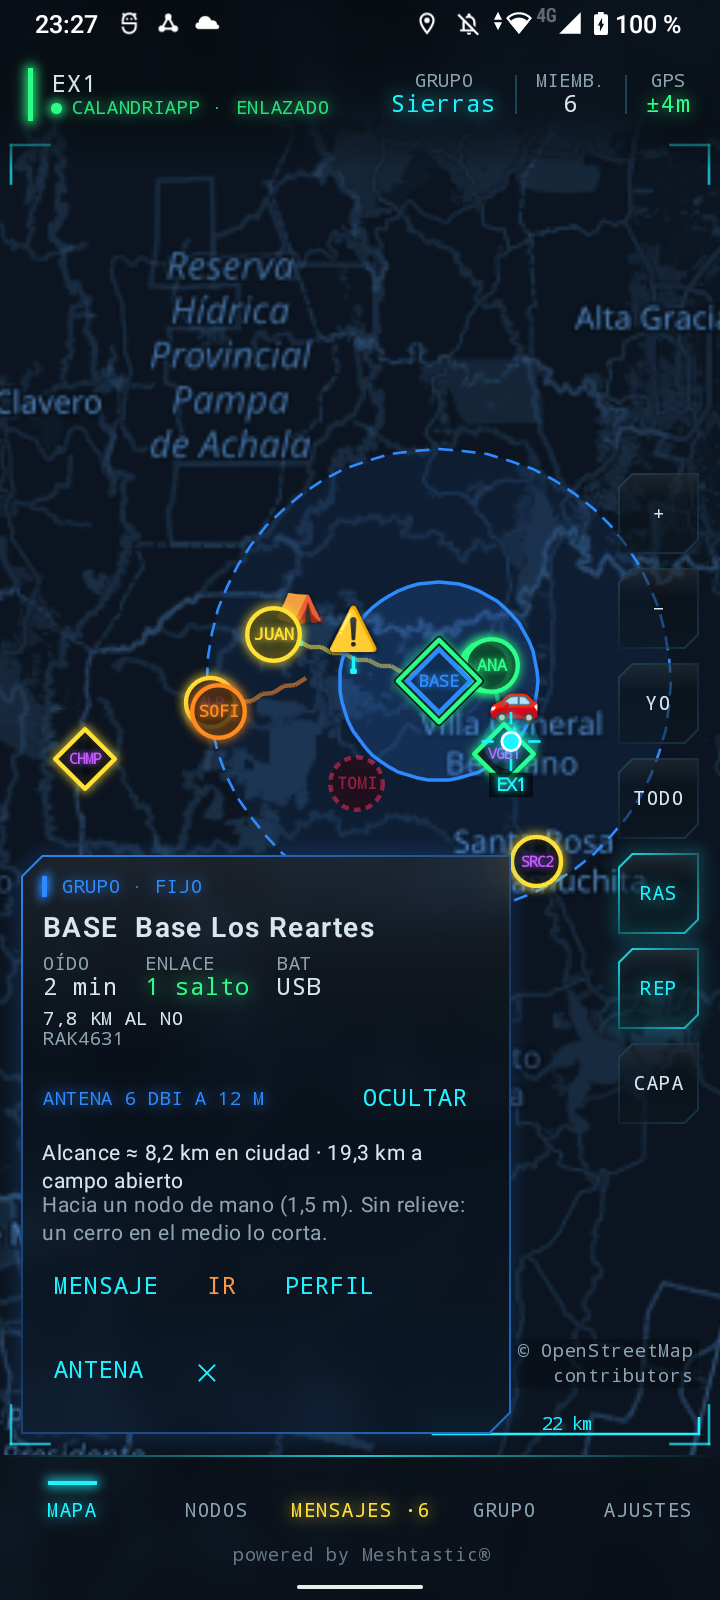
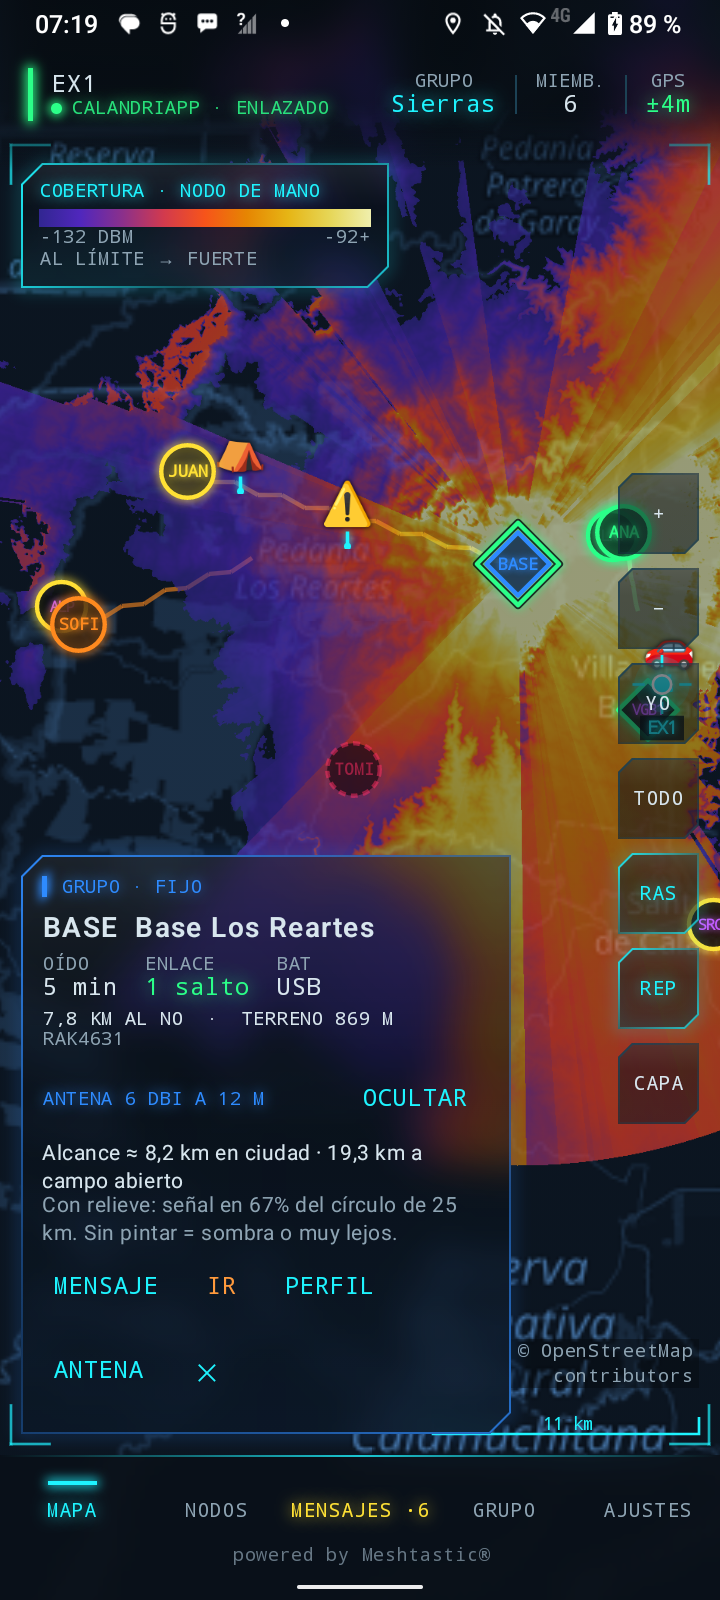
Release 1.6.0
Claude-Session: https://claude.ai/code/session_01CuarqPnbhZZVBMBUctnMAD

diff --git a/README.md b/README.md
@@ -3,7 +3,7 @@
 **Una app Android chica y propia para usar nodos Meshtastic en el campo: mensajes, mapa offline y
 seguimiento de un grupo cerrado, sin cuentas, sin nube y sin internet.**
 
-Versión **1.5.2** | Android 8 o más nuevo | *powered by Meshtastic®*
+Versión **1.6.0** | Android 8 o más nuevo | *powered by Meshtastic®*
 
 [![Descargar APK](https://img.shields.io/github/v/release/proto-hommer/calandriapp?label=descargar%20APK&color=2ea44f)](https://github.com/proto-hommer/calandriapp/releases/latest)
 
@@ -96,16 +96,19 @@ cuadrantes por donde pasa la ruta.
 <p><img src="docs/img/titulos/s-alcance-y-perfil-del-terreno.png" alt="Alcance y perfil del terreno" height="26"/></p>
 
 <p align="center">
-  <img src="docs/img/alcance.png" alt="Alcance estimado de un nodo fijo" width="32%"/>
+  <img src="docs/img/alcance.png" alt="Cobertura de un nodo fijo según el relieve, con la escala CMRmap" width="32%"/>
   &nbsp;
   <img src="docs/img/perfil-pasa.png" alt="Perfil del terreno: el enlace pasa" width="32%"/>
   &nbsp;
   <img src="docs/img/perfil-no-pasa.png" alt="Perfil del terreno: el enlace no pasa" width="32%"/>
 </p>
 
-- **Alcance estimado**: con un toque largo sobre un nodo al que le cargaste los datos de la antena,
-  se dibujan dos círculos: el alcance en ciudad (lleno) y a campo abierto (punteado). La altura de la
-  antena puede salir sola del GPS del nodo (su altitud menos el terreno), si la manda.
+- **Cobertura según el relieve**: con un toque largo sobre un nodo al que le cargaste los datos de la
+  antena, se pinta la señal que le llegaría a alguien de mano en 25 km a la redonda, de violeta (al
+  límite) a amarillo (fuerte), con la escala CMRmap. Lo que queda sin pintar es sombra detrás de los
+  cerros o demasiado lejos. Se calcula en el teléfono, sin internet si ya está el relieve de la zona.
+  Es una estimación (un solo filo por camino, sin árboles ni edificios); para un enlace puntual está
+  el perfil. La altura de la antena puede salir sola del GPS del nodo (su altitud menos el terreno).
 - **Perfil del terreno** entre vos y cualquier nodo: el corte del relieve, la línea de vista, la zona de
   Fresnel (las líneas punteadas) y si el enlace **pasa, está al límite o no pasa**, con el margen en
   dB. En el ejemplo, la base pasa con +17 dB aunque un cerro roza la línea de vista; JUAN, del otro lado
@@ -186,7 +189,7 @@ sin cuentas, sin nube ni servicios de Google: todo queda en el teléfono.
 
 <p><img src="docs/img/titulos/descargar-e-instalar.png" alt="Descargar e instalar" width="100%"/></p>
 
-1. Bajá el `CalandriApp-1.5.2.apk` de la [última versión](https://github.com/proto-hommer/calandriapp/releases/latest).
+1. Bajá el `CalandriApp-1.6.0.apk` de la [última versión](https://github.com/proto-hommer/calandriapp/releases/latest).
 2. Abrilo en el celular. Android va a pedir permiso para **instalar apps de origen desconocido**:
    dáselo al navegador o al gestor de archivos con el que lo abriste.
 3. Abrí CalandriApp, dale los permisos de **Bluetooth** y **ubicación**, tocá **BUSCAR** y
